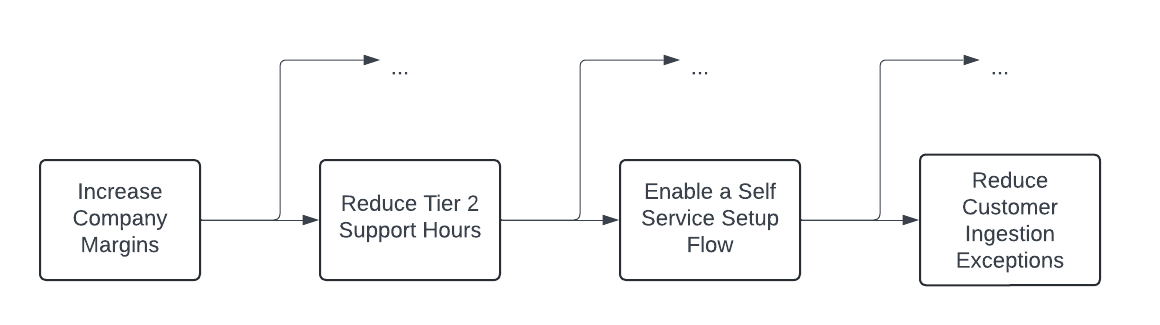
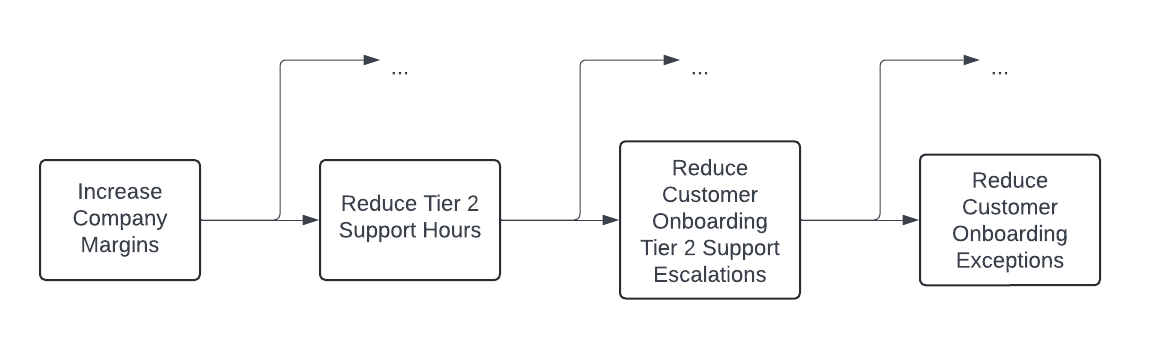
update

diff --git a/_posts/2004-05-27-inspection-strategy.md b/_posts/2004-05-27-inspection-strategy.md
@@ -16,15 +16,15 @@ tags: [Engineering, Leadership, Architecture, Management]
 
 The CEO needs to increase company margins. He turns to the engineering leadership team to help.
 
-Engineering leadership puts together a sound plan. First the objective to "increase company margins" is decomposed into a collection of eng-level goals like "reduce Tier 2 support hours". Each of these eng-level goals decompose into org-level goals like "enable a self-service setup flow", which decompose into team-level goals like "reduce customer ingestion exceptions".
+Engineering leadership puts together a sound plan. First the objective to "Increase Company Margins" is decomposed into a collection of eng-level goals like "Reduce Tier 2 Support Hours". Each of these eng-level goals decompose into org-level goals like "Reduce Customer Onboarding Tier 2 Support Escalations", which decompose into team-level goals like "Reduce Customer Onboarding Exceptions".
 
 ![Company margins project breakdown](/img/company-margins-project-breakdown.png)
 
 At the surface it may seem like the problem is nearly solved. Each engineering team just needs to achieve their individual goals, and the solutions will roll up into the org level goals. But the true work of engineering leadership has just begun.
 
-The engineer tasked with reducing customer ingestion exceptions is unlikely to understand the relationship of this workstream with company margins - they may or may not even know what Tier 2 support is. The great game of corporate telephone can easily send them down the wrong road. For example, suppose the engineer reviews recent customer ingestion exceptions, identifies a flaky service dependency as a common root cause, and then writes a design to remove the dependency. This will likely read as a solid plan to someone reviewing the design at a surface level.
+The engineer tasked with reducing customer onboarding exceptions is unlikely to understand the relationship of this workstream with company margins - they may or may not even know what Tier 2 support is. The great game of corporate telephone can easily send them down the wrong road. For example, suppose the engineer reviews recent customer onboarding exceptions, identifies a flaky service dependency as a common root cause, and then writes a design to remove the dependency. This will likely read as a solid plan to someone reviewing the design at a surface level.
 
-But perhaps the specific exceptions triggered by this flaky service dependency are not actually blockers to a self service setup flow! The engineer's plan is therefore entirely sideways to the key business goal. 
+But perhaps the specific exceptions triggered by this flaky service dependency do not require Tier 2 support to resolve! Then fixing these exceptions is not required to remove Tier 2 support, and the engineer's plan is sideways to the key business goal. 
 
 ## Technical Inspection
 
